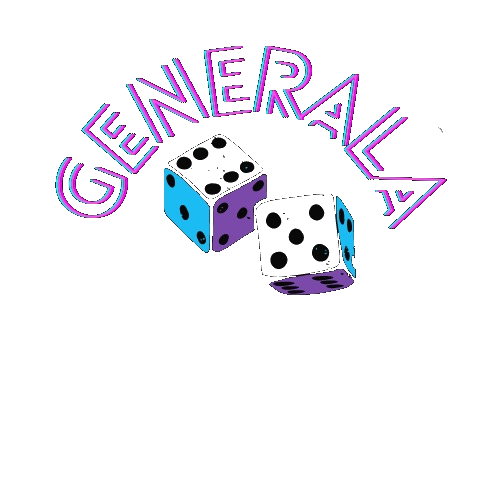
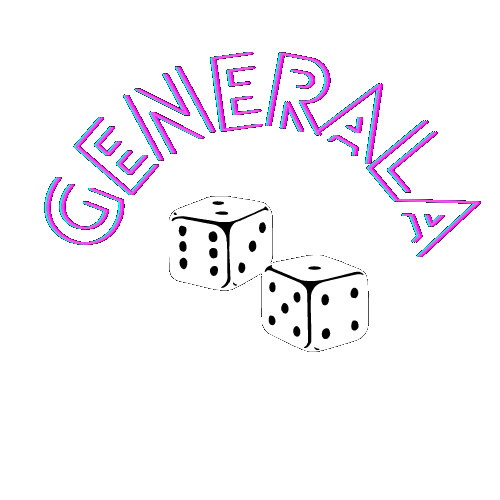
Funciona el Poker, Full, Escalera y la suma total

Changed region(s): [[0.09, 0.09, 0.96, 0.72], [0.69, 0.63, 0.72, 0.66]]

diff --git a/src/Components/Dices/Dices.js b/src/Components/Dices/Dices.js
@@ -1,39 +1,168 @@
-import React, { useState, useContext, useEffect } from "react";
+import React, { useContext, useEffect } from "react";
 import DicesContext from "../../Context/dicesContext";
+import UserContext from "../../Context/userContext";
 import "../Dices/dices.css";
 import Dice from "../Dice/Dice";
 const Dices = () => {
+  const {
+    setHeldDices,
+    saveDices,
+    setSaveDices,
+    heldDices,
+    setDicesOnTable,
+    dicesOnTable,
+  } = useContext(DicesContext);
 
-  const [dices, setDices] = useState([]);
+  const { setPlayer, player } = useContext(UserContext)
 
-  const { setHeldDices, saveDices, setSaveDices, heldDices, setDicesOnTable } = useContext(DicesContext)
-
-  useEffect(() => {}, [saveDices]) // eslint-disable-line react-hooks/exhaustive-deps
-
+  useEffect(() => {}, [saveDices, dicesOnTable]); // eslint-disable-line react-hooks/exhaustive-deps
 
   const handleDicesGenerate = () => {
-    const dicesGenerate = [0,0,0,0,0].map((dice) => Math.floor(Math.random() * 6 + 1));
-    setDices(dicesGenerate) // ================ Debo sacar esto, ahora los dados estan en el contexto =================================
-    setDicesOnTable(dicesGenerate)
-    setSaveDices([])
+    const dicesGenerate = [0, 0, 0, 0, 0].map((dice) =>
+      Math.floor(Math.random() * 6 + 1)
+    );
+    setDicesOnTable(dicesGenerate);
+    let dicesRepeats = handleDicesRepeat(dicesGenerate);
+    let dicesWithoutRepeat = handleRemoveDuplicates(dicesRepeats, "number");
+    handleVerifyPlays(dicesWithoutRepeat);
+    // setSaveDices([])
+  };
+
+  const handleDicesRepeat = (dices) => {
+    const listOfDices = dices;
+    const appearence = listOfDices.filter((number, i) =>
+      i === 0 ? true : listOfDices[i - 1] !== number
+    );
+    const counterAppearence = appearence.map((spec) => {
+      return { number: spec, count: 0 };
+    });
+
+    counterAppearence.map((countSpec, i) => {
+      const actualSpecLength = listOfDices.filter(
+        (number) => number === countSpec.number
+      ).length;
+      countSpec.count = actualSpecLength;
+      return counterAppearence;
+    });
+
+    return counterAppearence;
+
+  };
+
+  const handleRemoveDuplicates = (originalArray, prop) => {
+    let newArray = [];
+    let lookupObject  = {};
+
+    for(let i in originalArray) {
+       lookupObject[originalArray[i][prop]] = originalArray[i];
+    }
+
+    for(let i in lookupObject) {
+        newArray.push(lookupObject[i]);
+    }
+     return newArray;
+}
+
+
+  const handleVerifyPlays = (arrayDicesAndAppearences) => {
+    
+    let listAppearencesOfDices = arrayDicesAndAppearences.map((e) => e.count);
+    let maxAppearences = Math.max(...listAppearencesOfDices)
+
+    let dicesWithMoreAppearences = arrayDicesAndAppearences.filter((e) => e.count === maxAppearences)
+
+      
+
+      let dices = dicesWithMoreAppearences[0]
+      console.log(dicesWithMoreAppearences)
+
+        switch (dices.count) {
+          case 1: 
+          console.log(arrayDicesAndAppearences)
+            return stair(dicesWithMoreAppearences)
+          case 2:
+            // pairOrTrio(dices, dicesWithMoreAppearences)
+            console.log(arrayDicesAndAppearences)
+            return console.log("Debo verificar si es Par o Trio o Full")
+          case 3:
+            console.log(arrayDicesAndAppearences)
+            return full(arrayDicesAndAppearences)
+
+          case 4:
+            console.log(arrayDicesAndAppearences)
+            return poker()
+          default: 
+            return console.log("No cumplo con ninguna jugada")
+        }
   }
+
+  const pairOrTrio = (dices, dicesWithMoreAppearences) => {
+
+    if(dices.length > 1 && dices.length < 5 ){
+      let listNumbers = dicesWithMoreAppearences.map((e) => e.number)
+      let listTimesNumber = dicesWithMoreAppearences.map((e) => e.count)
+      // setPoints()
+
+
+    }
+
+  }
+
+  const full = (dices) => {
+    if(dices.length === 2){
+      let firstDice = dices[0].count;
+      let secondDice = dices[1].count;
+      if(firstDice === 3 || secondDice === 3){
+        let sumFull = player.full + 30
+        setPlayer({...player, full:sumFull})
+      }
+    }  
+  }
+
+  const poker = () => {
+    let sumPoker = player.poker + 40
+    setPlayer({...player, poker:sumPoker})
+  }
+
+  const stair = (dices) => {
+
+    let possibleStair_1 = [1,2,3,4,5];
+    let possibleStair_2 = [2,3,4,5,6];
+
+    let numbersDices = dices.map((e) => e.number)
+    let numerDiceOrdered = numbersDices.sort()
+
+    if(isEqualArray(numerDiceOrdered, possibleStair_1) || 
+       isEqualArray(numerDiceOrdered, possibleStair_2))
+    {
+      let sumStair = player.stair + 20
+      setPlayer({...player, stair:sumStair})
+    }
+  }
+
+  const isEqualArray = (array1,array2) => {
+    let i = array1.length;
+   if (i !== array2.length) return false;
+   while (i--) {
+     if (array1[i] !== array2[i]) return false;
+   }
+   return true;
+ };
+
 
   const handleDices = () => {
-
-    const newListDices = dices.map((dice,index) => (
+    const newListDices = dicesOnTable.map((dice, index) => (
       <Dice value={dice} key={index} dice={index} />
-   ))
-   return newListDices
-  }
+    ));
+    return newListDices;
+  };
 
   return (
     <div className="roll-dice">
-    <div className="dices-container">
-     {
-       handleDices()
-     }
-  </div>
-    <button className="btn-roll-dices" onClick={handleDicesGenerate}>Click</button>
+      <div className="dices-container">{handleDices()}</div>
+      <button className="btn-roll-dices" onClick={handleDicesGenerate}>
+        Click
+      </button>
     </div>
   );
 };

diff --git a/src/Components/Dices/dices.css b/src/Components/Dices/dices.css
@@ -6,8 +6,9 @@
 
 .roll-dice {
 
-    margin-left: 35%;
-    margin-top: 40%;
+    margin-left: 40%;
+    margin-top: 20%;
+    width: 20%;
 
 }
 
@@ -16,7 +17,7 @@
     margin-right: 2%;
     background-color: transparent;
     border-color: transparent;
-    color: green;
+    color: lime;
     width: 60px;
 
 }
@@ -26,7 +27,7 @@
     margin-right: 2%;
     background-color: transparent;
     border-color: transparent;
-    color: red;
+    color: rgb(0, 26, 255);
     width: 60px;
 
 }
@@ -37,6 +38,7 @@
 
 .btn-roll-dices {
 
-    margin-left: 18%;
+    margin-left: 20%;
     margin-top: 2%;
+    width: 20%;
 }

diff --git a/src/Page/ChooseName/initGame.css b/src/Page/ChooseName/initGame.css
@@ -15,12 +15,12 @@ body {
     10px 10px 0 rgb(48, -24, 0), 11px 11px 10px rgba(0, 255, 162, 0.17),
     11px 11px 1px rgba(0, 255, 162, 0.5), 0px 0px 10px rgba(0, 255, 162, 0.2);
   text-align: center;
-  margin-top: 10%;
+  margin-top: 5%;
 }
 
 img {
-  width: 33%;
-  margin-left: 35%;
+  width: 21%;
+  margin-left: 40%;
 }
 
 .game-title {
@@ -31,8 +31,8 @@ img {
 .card-new-player {
   text-align: center;
   width: 20%;
-  margin-top: 3%;
-  margin-left: 40%;
+  margin-top: 1%;
+  margin-left: 42%;
 }
 
 .title-player {

diff --git a/src/Context/userContext.js b/src/Context/userContext.js
@@ -15,6 +15,7 @@ const UserProvider = ({ children }) => {
     pairOrTrio_4: 0,
     pairOrTrio_5: 0,
     pairOrTrio_6: 0,
+
   });
 
   const ptsTotal = () => {
@@ -31,7 +32,14 @@ const UserProvider = ({ children }) => {
             )
   }
 
-  const data = { player, setPlayer, ptsTotal};
+
+  const setPoints = (score) => {
+
+
+
+  }
+
+  const data = { player, setPlayer, ptsTotal, setPoints};
 
   return <UserContext.Provider value={data}>{children}</UserContext.Provider>;
 };

diff --git a/src/Components/Dice/dice.css b/src/Components/Dice/dice.css
@@ -10,7 +10,7 @@
 .dice-no-pick {
 
     margin-right: 2%;
-    color: red;
+    color: rgb(11, 15, 253);
     width: 60px;
     padding-right: 64%;
 

diff --git a/src/Components/DicesPick/dicesPick.css b/src/Components/DicesPick/dicesPick.css
@@ -1,5 +1,5 @@
 .all-dices-pick{
-    margin-top: 10%;
+    width: 50%;
 }
 
 
